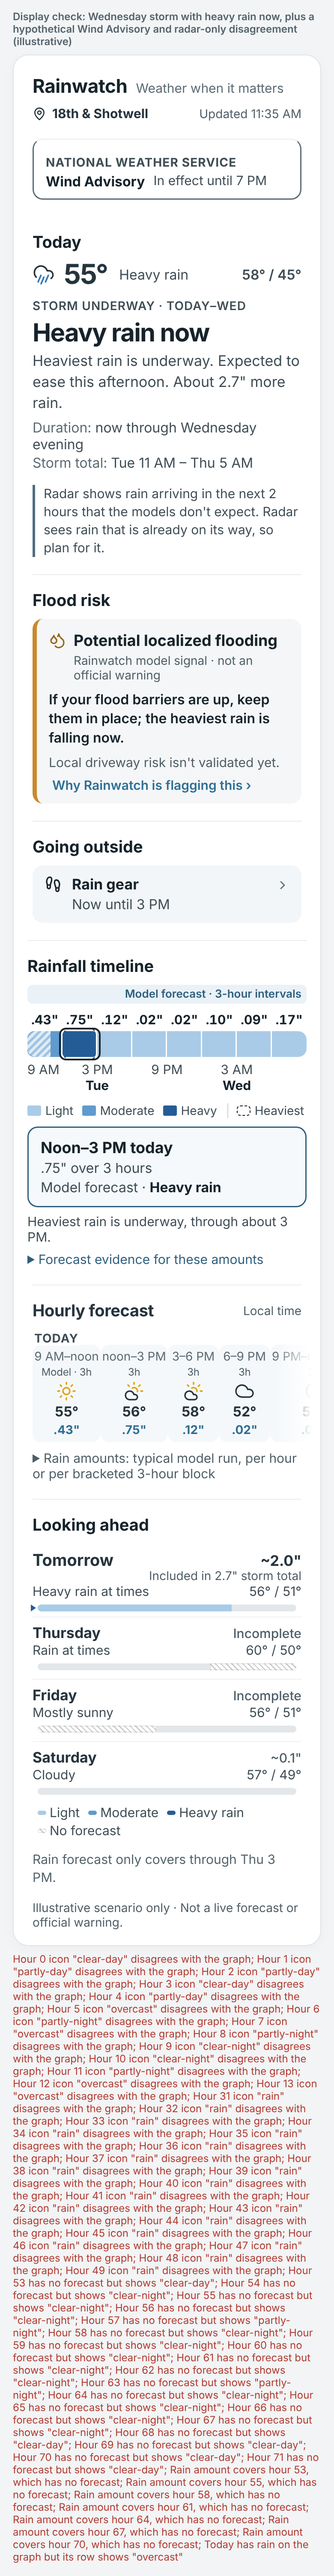
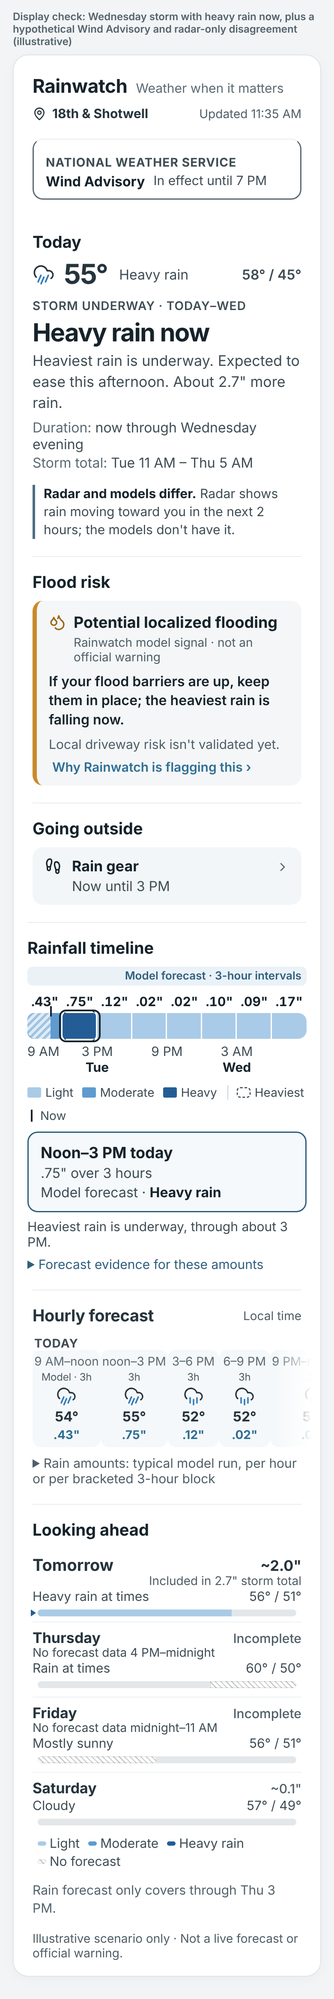
PR #11 review: consistent heavy-now display case, disagreement lead-in, incomplete-day coverage, now marker
- shiftEarlier moves hourly icons/temps with the rain, marks the vacated tail unknown and
  drops rain blocks past it (the lab case showed sunny icons under heavy rain; validator: 0 errors)
- Disagreement: 'Radar and models differ.' + one sentence per kind
- Looking ahead: incomplete days name the hours with no forecast data
- Timeline: Now line on the plot, keyed in the legend
No forecast logic change.

Claude-Session: https://claude.ai/code/session_01DGZCEbHLV5VJSPz5Ug97vc

Changed region(s): [[0.0308, 0.0, 0.9538, 0.9968], [0.8923, 0.0623, 0.9231, 0.0934]]

diff --git a/card/src/components/WeatherCard.tsx b/card/src/components/WeatherCard.tsx
@@ -6,7 +6,7 @@ import { isUnknown, showTimeline } from '../lib/rules';
 import { amountsVsTotal, edgeNote, eventHero, fiveDays, fmtAmount, hourAmounts, hourLabel, nowNext, tenths, type EventHero, rainAmount, stripCoverageNote, stripWords, upcomingEvent, type FiveDayRow } from '../lib/derive';
 import { WeatherIcon } from './WeatherIcon';
 import { Timeline, type GraphStyle, type PotentialStyle } from './Timeline';
-import { barAmount, clockRange, dayClock, dayInStormTotal, eligibleBars, hourTiles, stormTotalWindow, heaviestNote, hourText, initialSelection, INTENSITY_LEGEND, intervalDetail, nearDisagreement, officialAlerts, goingOutside, propertyFlood, sourcesCaption, todayTimeline, type TodayTimeline as TodayT } from '../lib/today';
+import { barAmount, clockRange, dayClock, dayCoverage, dayInStormTotal, eligibleBars, hourTiles, stormTotalWindow, heaviestNote, hourText, initialSelection, INTENSITY_LEGEND, intervalDetail, nearDisagreement, officialAlerts, goingOutside, propertyFlood, sourcesCaption, todayTimeline, type TodayTimeline as TodayT } from '../lib/today';
 
 /**
  * The integrated card (v0.12). One composition for every scenario:
@@ -119,6 +119,7 @@ function RainfallTimeline({ s, t, initial }: { s: Scenario; t: TodayT; initial?:
             : <span key={b.start} className={cls} data-from={b.start} data-to={b.end} data-res={b.res} data-in={b.in} style={style} aria-hidden />;
         })}
         {t.now > t.from && <span className="today-past" style={{ width: w(t.from, t.now) }} />}
+        {t.now > t.from && <i className="now-mark" style={{ left: x(t.now) }} />}
         {t.sources.slice(1).filter((q, i) => q.src !== t.sources[i].src).map(q => <i key={q.start} className="src-split" style={{ left: x(q.start) }} />)}
         {t.heavy && <span className="today-heavy" data-from={t.heavy.start} data-to={t.heavy.end} style={{ left: x(t.heavy.start), width: w(t.heavy.start, t.heavy.end) }} />}
       </div>
@@ -126,7 +127,7 @@ function RainfallTimeline({ s, t, initial }: { s: Scenario; t: TodayT; initial?:
     </div>
     <div className="today-legend" aria-label="Intensity">{INTENSITY_LEGEND.filter(l => lvls.has(l.level)).map(l =>
       <span key={l.level} title={l.range}><i className={`sw i${l.level}`} />{l.name}</span>)}
-      {t.heavy && <span className="legend-outline"><i className="sw-heavy" />Heaviest</span>}{over && <span className={t.heavy ? '' : 'legend-outline'}><i className="sw-over" />Overlap</span>}</div>
+      {t.heavy && <span className="legend-outline"><i className="sw-heavy" />Heaviest</span>}{over && <span className={t.heavy ? '' : 'legend-outline'}><i className="sw-over" />Overlap</span>}{t.now > t.from && <span><i className="sw-now" />Now</span>}</div>
     {det && <div className="interval-card" aria-live="polite">
       <strong>{det.title}</strong><span>{det.amount}</span><span>{det.source} · <b>{det.intensity}</b></span></div>}
     {note && <p className="heaviest-note">{note}</p>}
@@ -154,7 +155,7 @@ function OfficialAlerts({ s }: { s: Scenario }) {
 /** The engine's next-hours radar/model comparison in plain words, only when it matters for a near-term decision. */
 function NearDisagreement({ s }: { s: Scenario }) {
   const t = nearDisagreement(s);
-  return t ? <p className="near-disagree" role="note">{t}</p> : null;
+  return t ? <p className="near-disagree" role="note"><strong>Radar and models differ.</strong> {t}</p> : null;
 }
 
 const OUTSIDE_ICON = { 0: Shirt, 1: Umbrella, 2: Footprints, heat: Sun } as const;
@@ -261,6 +262,7 @@ function FiveDays({ s, rows }: { s: Scenario; rows: FiveDayRow[] }) {
     <ol className="five-rows">{rows.map((r, k) => k === 0 && r.label === 'Today' ? null : <li className={`five-row${k === 1 ? ' five-row-next' : ''}`} key={r.label} id={`five-day-${k}`} tabIndex={-1}>
       <div className="five-top"><strong>{r.label}</strong><span className={`total total-${r.total.kind}`}>{r.total.text}</span></div>
       {r.total.kind === 'amount' && dayInStormTotal(s, k) && <p className="in-storm-total">{dayInStormTotal(s, k)}</p>}
+      {r.total.kind === 'incomplete' && dayCoverage(s, k) && <p className="in-storm-total coverage">{dayCoverage(s, k)}</p>}
       <div className="five-sub"><span className="five-desc">{r.description}</span><span className="five-temps">{deg(r.highF)} / {deg(r.lowF)}</span></div>
       <Strip r={r} />
     </li>)}</ol>

diff --git a/card/src/lib/reliability.test.ts b/card/src/lib/reliability.test.ts
@@ -46,9 +46,9 @@ describe('radar/model disagreement in plain words', () => {
   const s = stormWedNight();
   const dis = (d: NonNullable<NonNullable<Scenario['evidence']>['nearDisagree']>) => nearDisagreement(withEv(s, { nearDisagree: d }));
   it('names which way they disagree, without the ratio', () => {
-    expect(dis({ kind: 'radar_only', hours: 2, radarIn: 0.12, modelsIn: 0 })).toMatch(/^Radar shows rain arriving in the next 2 hours that the models don't expect\./);
-    expect(dis({ kind: 'models_only', hours: 2, radarIn: 0, modelsIn: 0.05 })).toMatch(/^Models expect rain in the next 2 hours, but radar/);
-    expect(dis({ kind: 'amount', hours: 2, radarIn: 0.19, modelsIn: 0.05 })).toMatch(/not on how much/);
+    expect(dis({ kind: 'radar_only', hours: 2, radarIn: 0.12, modelsIn: 0 })).toBe("Radar shows rain moving toward you in the next 2 hours; the models don't have it.");
+    expect(dis({ kind: 'models_only', hours: 2, radarIn: 0, modelsIn: 0.05 })).toBe('The models expect rain in the next 2 hours; radar shows none on the way yet.');
+    expect(dis({ kind: 'amount', hours: 2, radarIn: 0.19, modelsIn: 0.05 })).toMatch(/^Both show rain in the next 2 hours, but not how much/);
     for (const k of ['radar_only', 'models_only', 'amount'] as const) expect(dis({ kind: k, hours: 2, radarIn: 0.3, modelsIn: 0.05 })).not.toMatch(/\d\s*[x×]|times/);
   });
   it('stays quiet when both amounts are below the Moderate tier for the period', () => {
@@ -65,5 +65,17 @@ describe('heavy rain now: hero and timeline note agree', () => {
       if (!/Heaviest rain is underway/.test(e.sentence)) continue;
       expect(heaviestNote(s, todayTimeline(s)!), String(k)).toMatch(/^Heaviest rain is underway, through about /);
     }
+  });
+});
+
+describe('heavy-rain-now display case is internally consistent', () => {
+  it('shifted storm: no validator errors; hourly icons at the heavy hours show rain', async () => {
+    const { validateScenario } = await import('./rules');
+    const { hourTiles } = await import('./today');
+    const s = shiftEarlier(stormWed(), 19);
+    s.days = [{ ...s.days[0], icon: s.days[1].icon, description: s.days[1].description }, ...s.days.slice(1)];
+    expect(validateScenario(s)).toEqual([]);
+    const tile = hourTiles(s).find(g => g.at <= 1 && 1 < g.end)!;
+    expect(tile.icon).toMatch(/rain/);
   });
 });

diff --git a/card/src/lib/today.ts b/card/src/lib/today.ts
@@ -293,9 +293,22 @@ export function nearDisagreement(s: Scenario): string | null {
   const d = s.evidence?.nearDisagree;
   if (!d) return null;
   const h = `the next ${d.hours} hour${d.hours === 1 ? '' : 's'}`;
-  if (d.kind === 'radar_only') return `Radar shows rain arriving in ${h} that the models don't expect. Radar sees rain that is already on its way, so plan for it.`;
-  if (d.kind === 'models_only') return `Models expect rain in ${h}, but radar doesn't show any on the way yet. It may form nearby, or hold off.`;
+  if (d.kind === 'radar_only') return `Radar shows rain moving toward you in ${h}; the models don't have it.`;
+  if (d.kind === 'models_only') return `The models expect rain in ${h}; radar shows none on the way yet.`;
   const hi = Math.max(d.radarIn ?? 0, d.modelsIn ?? 0);
   if (hi < DISAGREE_SHOW_IN) return null;
-  return `Radar and models agree rain is coming in ${h} but not on how much. The amounts for these hours are less certain than usual.`;
+  return `Both show rain in ${h}, but not how much; amounts for these hours are less certain.`;
+}
+
+/** Looking ahead, a day the forecast only partly covers: name the hours with no data, so "Incomplete" is never read as dry. */
+export function dayCoverage(s: Scenario, dayIndex: number): string | null {
+  const start = dayIndex === 0 ? 0 : 24 - s.startHourLocal + (dayIndex - 1) * 24, end = dayIndex === 0 ? 24 - s.startHourLocal : start + 24;
+  const gaps: [number, number][] = [];
+  for (let h = start; h < end; h++) if (isUnknown(s, h)) {
+    const g = gaps[gaps.length - 1];
+    if (g && g[1] === h) g[1] = h + 1; else gaps.push([h, h + 1]);
+  }
+  if (!gaps.length) return null;
+  if (gaps.length === 1 && gaps[0][0] === start && gaps[0][1] === end) return 'No forecast data for this day yet';
+  return `No forecast data ${gaps.map(([a, b]) => clockRange(s, a, b)).join(' or ')}`;
 }

diff --git a/card/src/main.tsx b/card/src/main.tsx
@@ -61,7 +61,7 @@ const EVENT_CASES:[string,string,()=>Scenario][]=[
  ['storm-night','Wednesday storm, live forecast Wed 12:51 AM',stormWedNight],
  ['storm-cut','Storm running past the forecast: data stops Thu 3 AM',()=>stormCut(40)],
  ['storm-peak','Display check only: the same storm IF two independent hourly systems agreed (hypothetical .40–.45")',()=>{const s=stormWed();s.peakRate={lo:0.4,hi:0.45,hour:21,systems:['ICON ensemble','HRRR']};return s;}],
- ['storm-now','Display check: Wednesday storm with heavy rain now, plus a hypothetical Wind Advisory and radar-only disagreement (illustrative)',()=>{const s=shiftEarlier(stormWed(),19);s.current={...s.current,condition:'Heavy rain',icon:'heavy-rain'};s.evidence={...s.evidence!,alerts:[{event:'Wind Advisory',startHour:0,endHour:8,flood:false}],nearDisagree:{kind:'radar_only',hours:2,radarIn:0.18,modelsIn:0}};return s;}],
+ ['storm-now','Display check: Wednesday storm with heavy rain now, plus a hypothetical Wind Advisory and radar-only disagreement (illustrative)',()=>{const s=shiftEarlier(stormWed(),19);s.current={...s.current,condition:'Heavy rain',icon:'heavy-rain'};s.days=[{...s.days[0],icon:s.days[1].icon,description:s.days[1].description},...s.days.slice(1)];s.evidence={...s.evidence!,alerts:[{event:'Wind Advisory',startHour:0,endHour:8,flood:false}],nearDisagree:{kind:'radar_only',hours:2,radarIn:0.18,modelsIn:0}};return s;}],
  ['storm-official','Extreme storm fixture (Flood Watch; no amounts in this fixture)',()=>structuredClone(scenarios.find(x=>x.id==='storm')!) as Scenario],
  ['heat','Heatwave fixture',()=>structuredClone(scenarios.find(x=>x.id==='heat')!) as Scenario],
  ['rain','Ordinary intermittent rain (rain fixture)',()=>structuredClone(scenarios.find(x=>x.id==='rain')!) as Scenario],

diff --git a/card/src/lib/cases.ts b/card/src/lib/cases.ts
@@ -50,10 +50,14 @@ export function shiftEarlier(s: Scenario, by: number) {
     xs?.map(x => ({ ...x, startHour: Math.max(0, x.startHour - by), endHour: x.endHour - by })).filter(x => x.endHour > 0);
   s.timeline!.intervals = mv(s.timeline!.intervals)!;
   s.rainHours = mv(s.rainHours);
+  // the hourly icons and temperatures move with the rain (they were left in place before Nov 19, which made the shifted
+  // lab cases show sunny icons under heavy rain: a fixture inconsistency the validator reported)
+  const hrs = s.hourly.map((h, i) => ({ ...h, hour: h.hour ?? i }));
+  s.hourly = hrs.map((h, i) => ({ ...h, ...(hrs[i + by] && i < 72 - by ? { icon: hrs[i + by].icon, temperatureF: hrs[i + by].temperatureF } : { icon: 'unknown' as const }) }));
   s.rainTotals = mv(s.rainTotals)?.map(x => ({ ...x, ...(x.fromHour !== undefined ? { fromHour: Math.max(0, x.fromHour - by) } : {}),
                                                  ...(x.toHour !== undefined ? { toHour: x.toHour - by } : {}) }));
   // rain blocks move too, keeping each amount's whole interval (a block cut at hour 0 keeps its earlier start)
-  s.rainBlocks = s.rainBlocks?.filter(b => b.endHour - by > 0).map(b => {
+  s.rainBlocks = s.rainBlocks?.filter(b => b.endHour - by > 0 && b.endHour - by <= 72 - by).map(b => {
     const ws = (b.blockStartHour ?? b.startHour) - by, we = (b.blockEndHour ?? b.endHour) - by, st = Math.max(0, b.startHour - by);
     return { ...b, startHour: st, endHour: b.endHour - by, ...(st > ws ? { partial: true, blockStartHour: ws, blockEndHour: we } : {}) };
   });

diff --git a/card/src/styles.css b/card/src/styles.css
@@ -329,3 +329,11 @@ details.todo-row[open] .todo-chev{transform:rotate(90deg)}
 .nws-alerts li{display:flex;flex-wrap:wrap;gap:4px 10px;font-size:16px;color:#16232b}
 .nws-alerts li span{color:#3f4d55;font-size:15px}
 .near-disagree{margin:-4px 0 0;font-size:15px;line-height:1.4;color:#3f4d55;border-left:3px solid #4d6e83;padding-left:10px}
+
+/* PR #11 review */
+.near-disagree strong{color:#16232b}
+.in-storm-total.coverage{text-align:left;color:#3f4d55}
+.now-mark{position:absolute;top:-8px;bottom:-8px;border-left:2px solid #16232b;z-index:6;pointer-events:none}
+.now-mark b{position:absolute;top:-17px;left:-12px;font-size:12px;font-weight:700;color:#16232b;background:#fff;padding:0 2px}
+.sw-now{width:2px;height:14px;background:#16232b;display:inline-block;margin:0 4px}
+.today-legend{flex-wrap:wrap}
